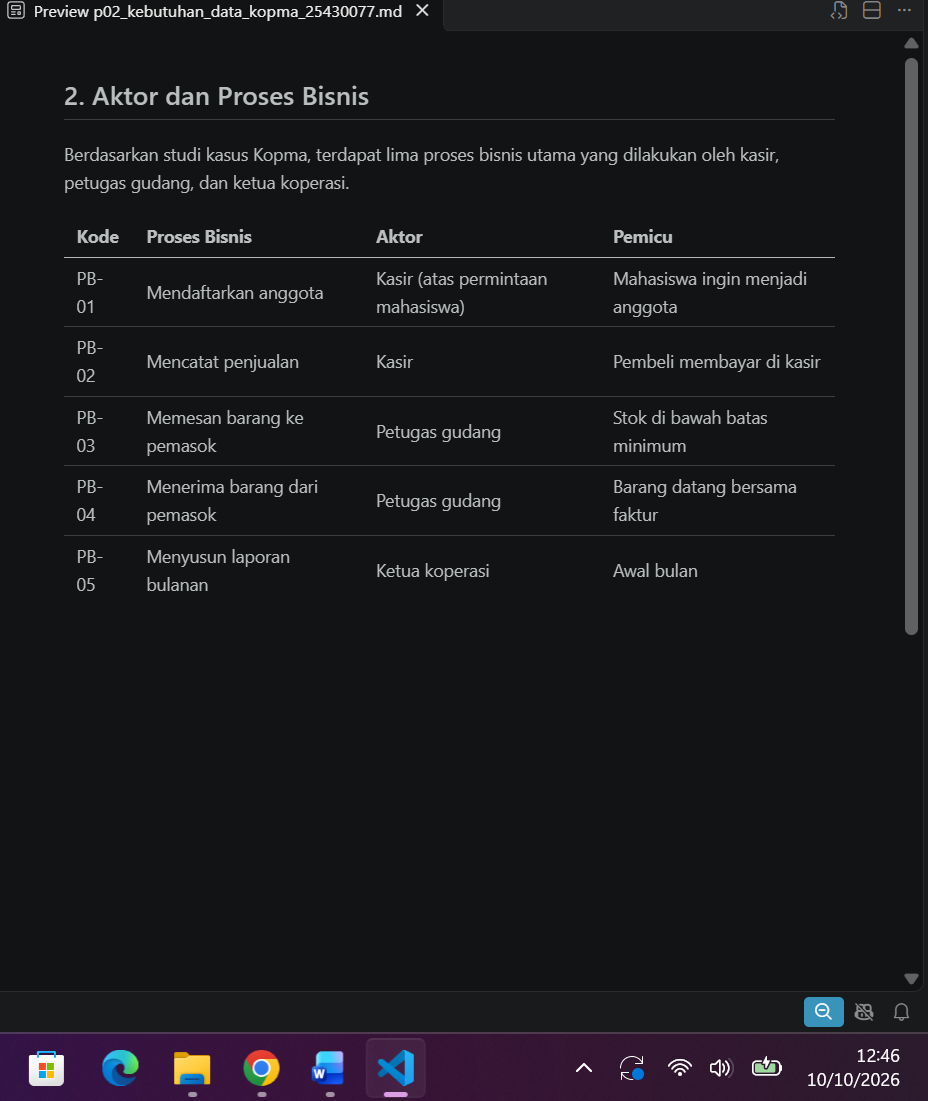
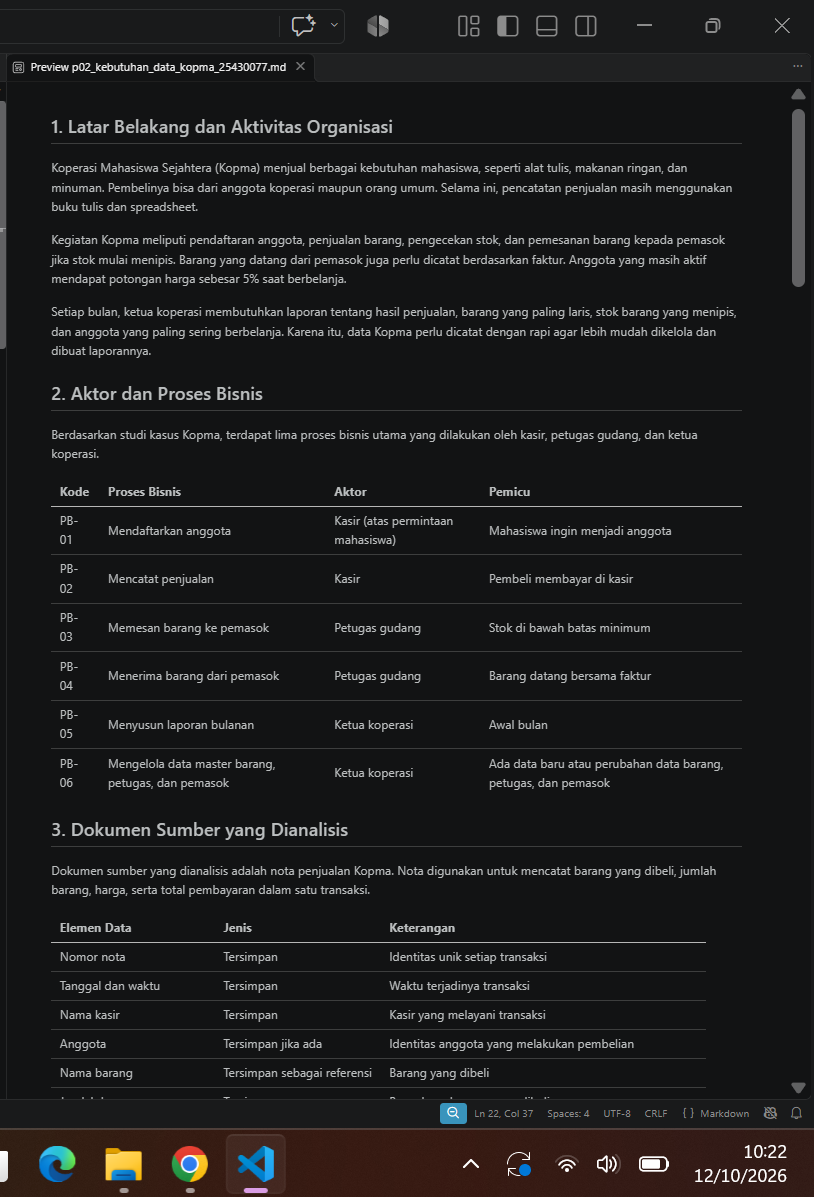
pO2 : milestone proyek 2

diff --git a/p02_kebutuhan_data_kopma_25430077.md b/p02_kebutuhan_data_kopma_25430077.md
@@ -17,6 +17,7 @@ Berdasarkan studi kasus Kopma, terdapat lima proses bisnis utama yang dilakukan 
 | PB-03 | Memesan barang ke pemasok | Petugas gudang | Stok di bawah batas minimum |
 | PB-04 | Menerima barang dari pemasok | Petugas gudang | Barang datang bersama faktur |
 | PB-05 | Menyusun laporan bulanan | Ketua koperasi | Awal bulan |
+| PB-06 | Mengelola data master barang, petugas, dan pemasok | Ketua koperasi | Ada data baru atau perubahan data barang, petugas, dan pemasok |
 
 ## 3. Dokumen Sumber yang Dianalisis
 
@@ -76,37 +77,55 @@ Kopma membutuhkan informasi dari database untuk memantau penjualan, persediaan b
 | KI-04 | Sepuluh anggota paling aktif setiap bulan | Menampilkan anggota dengan total belanja terbesar. |
 | KI-05 | Menampilkan jumlah poin loyalitas setiap anggota dan anggota yang memenuhi syarat penukaran poin. |
 
-## 7. Matriks CRUDS
+## 7. Matriks CRUD
 
-Matriks CRUDS menunjukkan tindakan pada data dalam setiap proses bisnis. C berarti Create, R berarti Read, U berarti Update, D berarti Delete, dan S berarti Search.
+Matriks CRUD menunjukkan tindakan pada data dalam setiap proses bisnis. C berarti Create, R berarti Read, U berarti Update, dan D berarti Delete.
 
 | Proses Bisnis | Anggota | Barang | Petugas | Penjualan | Detail Penjualan | Pemasok | Pembelian | Detail Pembelian |
 |---|---|---|---|---|---|---|---|---|
 | PB-01 Pendaftaran anggota | C | - | R | - | - | - | - | - |
-| PB-02 Pencatatan penjualan | R, S, U | R, S, U | R | C | C | - | - | - |
-| PB-03 Pemesanan barang | - | R, S | R | - | - | R, S | C | C |
-| PB-04 Penerimaan barang | - | U | R | - | - | R, S | R, U | R |
-| PB-05 Laporan bulanan | R | R | R | R | R | - | R | R |
+| PB-02 Pencatatan penjualan | R, U | R, U | R | C | C | - | - | - |
+| PB-03 Pemesanan barang | - | R | R | - | - | R | C | C |
+| PB-04 Penerimaan barang | - | U | R | - | - | R | R, U | R |
+| PB-05 Laporan bulanan | R | R | R | R | R | - | - | - |
+| PB-06 Pengelolaan data master | - | C, R, U | C, R, U | - | - | C, R, U | - | - |
 
-Keterangan:
-- C (Create): menambahkan data baru.
-- R (Read): membaca atau menampilkan data.
-- U (Update): memperbarui data.
-- D (Delete): menghapus data.
-- S (Search): mencari data berdasarkan kriteria tertentu.
-- Tanda (-) berarti tidak ada tindakan utama pada entitas tersebut dalam proses terkait.
+**Keterangan:**
+- **C (Create):** menambahkan data.
+- **R (Read):** membaca atau menampilkan data.
+- **U (Update):** memperbarui data.
+- **D (Delete):** menghapus data.
+- Tanda `-` berarti tidak ada tindakan utama pada entitas tersebut dalam proses terkait.
 
 ## 8. Kamus Data Awal
 
-| Elemen | Arti | Contoh | Aturan | Penanggung Jawab |
-|---|---|---|---|---|
-| `no_anggota` | Nomor anggota koperasi | A-0457 | Unik, format A-4 digit | Ketua |
-| `nim_anggota` | NIM anggota | 2301010123 | Unik, 10 digit | Ketua |
-| `no_hp_anggota` | Nomor HP anggota | 0812xxxx | Data pribadi, akses terbatas | Ketua |
-| `no_nota_penjualan` | Nomor nota penjualan | PJ-2609-0142 | Unik per nota | Kasir |
-| `harga_satuan_detail_penjualan` | Harga jual saat transaksi | 4000 | Bilangan bulat ≥ 0 (rupiah) | Kasir |
-| `stok_barang` | Jumlah barang tersedia | 35 | Bilangan bulat ≥ 0 (AB-03) | Petugas gudang |
-| `poin_loyalitas` | Jumlah poin loyalitas yang dimiliki anggota | 25 | Bilangan bulat ≥ 0 | Ketua |
+Kamus data awal berisi elemen data penting dari setiap entitas yang digunakan dalam pengelolaan data Kopma. Setiap elemen dilengkapi dengan penanggung jawab data.
+
+| No. | Entitas | Elemen Data | Keterangan | Penanggung Jawab |
+|---:|---|---|---|---|
+| 1 | Anggota | `nim_anggota` | NIM anggota sebagai identitas anggota | Petugas pendaftaran |
+| 2 | Anggota | `nama_anggota` | Nama lengkap anggota | Petugas pendaftaran |
+| 3 | Anggota | `no_hp_anggota` | Nomor telepon anggota | Ketua koperasi |
+| 4 | Anggota | `status_anggota` | Status keanggotaan untuk menentukan hak diskon | Ketua koperasi |
+| 5 | Anggota | `poin_loyalitas` | Jumlah poin loyalitas yang dimiliki anggota | Kasir |
+| 6 | Barang | `kode_barang` | Kode unik untuk mengidentifikasi barang | Petugas gudang |
+| 7 | Barang | `nama_barang` | Nama barang yang dijual | Petugas gudang |
+| 8 | Barang | `harga_barang` | Harga jual barang | Ketua koperasi |
+| 9 | Barang | `stok_barang` | Jumlah stok barang yang tersedia | Petugas gudang |
+| 10 | Barang | `stok_minimum_barang` | Batas minimum stok untuk menentukan kebutuhan pemesanan | Petugas gudang |
+| 11 | Penjualan | `no_nota_penjualan` | Nomor unik nota penjualan | Kasir |
+| 12 | Penjualan | `tanggal_waktu_penjualan` | Tanggal dan waktu transaksi | Kasir |
+| 13 | Penjualan | `total_pembayaran` | Total pembayaran setelah perhitungan transaksi dan diskon | Kasir |
+| 14 | Detail Penjualan | `jumlah_detail_penjualan` | Jumlah barang yang dibeli dalam satu baris detail | Kasir |
+| 15 | Detail Penjualan | `harga_satuan_detail_penjualan` | Harga satuan barang saat transaksi | Kasir |
+| 16 | Petugas | `id_petugas` | Identitas unik petugas | Ketua koperasi |
+| 17 | Petugas | `nama_petugas` | Nama petugas koperasi | Ketua koperasi |
+| 18 | Pemasok | `id_pemasok` | Identitas unik pemasok | Petugas gudang |
+| 19 | Pemasok | `nama_pemasok` | Nama pemasok barang | Petugas gudang |
+| 20 | Pembelian | `no_pembelian` | Nomor transaksi pembelian dari pemasok | Petugas gudang |
+| 21 | Pembelian | `tanggal_pembelian` | Tanggal pembelian barang dari pemasok | Petugas gudang |
+| 22 | Detail Pembelian | `jumlah_detail_pembelian` | Jumlah barang yang dibeli dari pemasok | Petugas gudang |
+| 23 | Detail Pembelian | `harga_beli_detail_pembelian` | Harga beli per satuan barang | Petugas gudang |
 
 ## 9. Kebutuhan Non-Fungsional Data
 

diff --git a/p02_kebutuhan_data_25430077.md b/p02_kebutuhan_data_25430077.md
@@ -104,27 +104,27 @@ Total SKS diperoleh dari penjumlahan SKS seluruh mata kuliah yang dipilih. Data 
 | KI-07 | Menampilkan daftar mahasiswa yang mengambil kelas kuliah tertentu | Dosen dan admin akademik | nama_dosen, nama_mk, kelas, NIM, nama mahasiswa |
 | KI-08 | Menampilkan rekap nilai mahasiswa pada suatu semester | Admin akademik | NIM, nama, mata kuliah, semester, nilai_akhir |
 
-## 7. Matriks CRUDS
+## 7. Matriks CRUD
+
+Matriks CRUD menunjukkan tindakan pada data dalam setiap proses bisnis. C berarti Create, R berarti Read, U berarti Update, dan D berarti Delete.
 
 | Proses Bisnis | Mahasiswa | Mata Kuliah | Dosen | Semester | Kelas Kuliah | KRS | Detail KRS | Nilai |
 |---|---|---|---|---|---|---|---|---|
-| PB-01 Mengelola data mahasiswa | C,R,U,D,S | - | - | - | - | - | - | - |
-| PB-02 Mengelola mata kuliah | - | C,R,U,D,S | - | - | - | - | - | - |
-| PB-03 Membuka kelas kuliah | - | R,S | R,S | R,S | C,R,U,D,S | - | - | - |
-| PB-04 Mengisi KRS | R,S | R,S | - | R,S | R,S | C,R,U | - | - |
-| PB-05 Mencatat nilai mahasiswa | R,S | R,S | R,S | R | R,S | R | R | C,R,U |
-| PB-06 Mengelola data dosen | - | - | C,R,U,D,S | - | - | - | - | - |
-| PB-07 Mengelola data semester | - | - | - | C,R,U,D,S | - | - | - | - |
-| PB-08 Mengelola pilihan kelas dalam KRS | R,S | R,S | - | R,S | R,S | R,U | C,R,U,D | - |
+| PB-01 Mengelola data mahasiswa | C, R, U, D | - | - | - | - | - | - | - |
+| PB-02 Mengelola mata kuliah | - | C, R, U, D | - | - | - | - | - | - |
+| PB-03 Membuka kelas kuliah | - | R | R | R | C, R, U, D | - | - | - |
+| PB-04 Mengisi KRS | R | R | - | R | R | C, R, U | - | - |
+| PB-05 Mencatat nilai mahasiswa | R | R | R | R | R | R | R | C, R, U |
+| PB-06 Mengelola data dosen | - | - | C, R, U, D | - | - | - | - | - |
+| PB-07 Mengelola data semester | - | - | - | C, R, U, D | - | - | - | - |
+| PB-08 Mengelola pilihan kelas dalam KRS | R | R | - | R | R | R, U | C, R, U, D | - |
 
 **Keterangan:**
-
 - **C (Create):** menambahkan data.
-- **R (Read):** melihat atau membaca data.
-- **U (Update):** mengubah data.
+- **R (Read):** membaca atau menampilkan data.
+- **U (Update):** memperbarui data.
 - **D (Delete):** menghapus data.
-- **S (Search):** mencari data berdasarkan kata kunci atau kriteria tertentu.
-- Tanda `-` berarti proses tersebut tidak melakukan operasi pada entitas itu.
+- Tanda `-` berarti tidak ada operasi utama pada entitas tersebut dalam proses terkait.**Keterangan:**
 
 ## 8. Kamus Data Awal
 

diff --git a/laporan/p02_laporan_25430077.md b/laporan/p02_laporan_25430077.md
@@ -16,7 +16,7 @@ Praktikum ini bertujuan untuk memahami cara menentukan kebutuhan data berdasarka
 
 Analisis kebutuhan data dilakukan untuk mengetahui data apa saja yang dibutuhkan dalam suatu organisasi. Caranya dengan melihat kegiatan yang dilakukan, siapa saja yang terlibat, dan informasi apa yang diperlukan.
 
-Hasil analisis ini digunakan untuk menyusun aturan bisnis, matriks CRUDS, dan kamus data. Dokumen tersebut nantinya menjadi dasar untuk merancang basis data.
+Hasil analisis ini digunakan untuk menyusun aturan bisnis, matriks CRUD, dan kamus data. Dokumen tersebut nantinya menjadi dasar untuk merancang basis data.
 
 ## 3. Hasil Langkah Percobaan
 
@@ -30,9 +30,9 @@ Tabel ini berisi daftar proses bisnis yang dilakukan di Kopma, pihak yang terlib
 Tabel ini berisi aturan yang perlu diterapkan dalam pengelolaan data Kopma agar setiap proses berjalan sesuai ketentuan.
 ![ab_kopma](../images/modul_2/ab_kopma.png)
 
-### 3.3 Tabel Kebutuhan Informasi dan Matriks CRUDS 
-Bagian ini menunjukkan informasi yang dibutuhkan dalam kegiatan Kopma serta proses yang dapat dilakukan terhadap data, seperti membuat, membaca, memperbarui, menghapus, dan mencari data.
-![ki_danMatriksCRUDS](../images/modul_2/ki_danMatriksCRUDS.png)
+### 3.3 Tabel Matriks CRUD
+Bagian ini proses yang dapat dilakukan terhadap data, seperti membuat, membaca, memperbarui, menghapus, dan mencari data.
+![matriksCRUD](../images/modul_2/matriksCRUD.png)
 
 ### 3.4 Kamus Data Awal
 Kamus data awal berisi daftar elemen data yang dibutuhkan, termasuk penanggung jawab dari setiap data yang dicatat.
@@ -86,9 +86,9 @@ Tabel ini berisi aturan yang digunakan agar pengelolaan data akademik berjalan s
 Tabel ini menunjukkan informasi yang dibutuhkan, seperti data mahasiswa, jadwal kuliah, KRS, dan nilai.
 ![ki_akad](../images/modul_2/ki_akad.png)
 
-### 6.4 Matriks CRUDS
+### 6.4 Matriks CRUD
 Matriks ini menunjukkan proses yang dapat dilakukan setiap bagian terhadap data, seperti menambah, melihat, memperbarui, menghapus, dan mencari data.
-![matriksCRUDS_akad](../images/modul_2/matriksCRUDS_akad.png)
+![matriksCRUD_akad](../images/modul_2/matriksCRUD_akad.png)
 
 ### 6.5  Kamus Data Awal
 Kamus data ini berisi elemen data yang digunakan dalam sistem beserta penanggung jawabnya.
